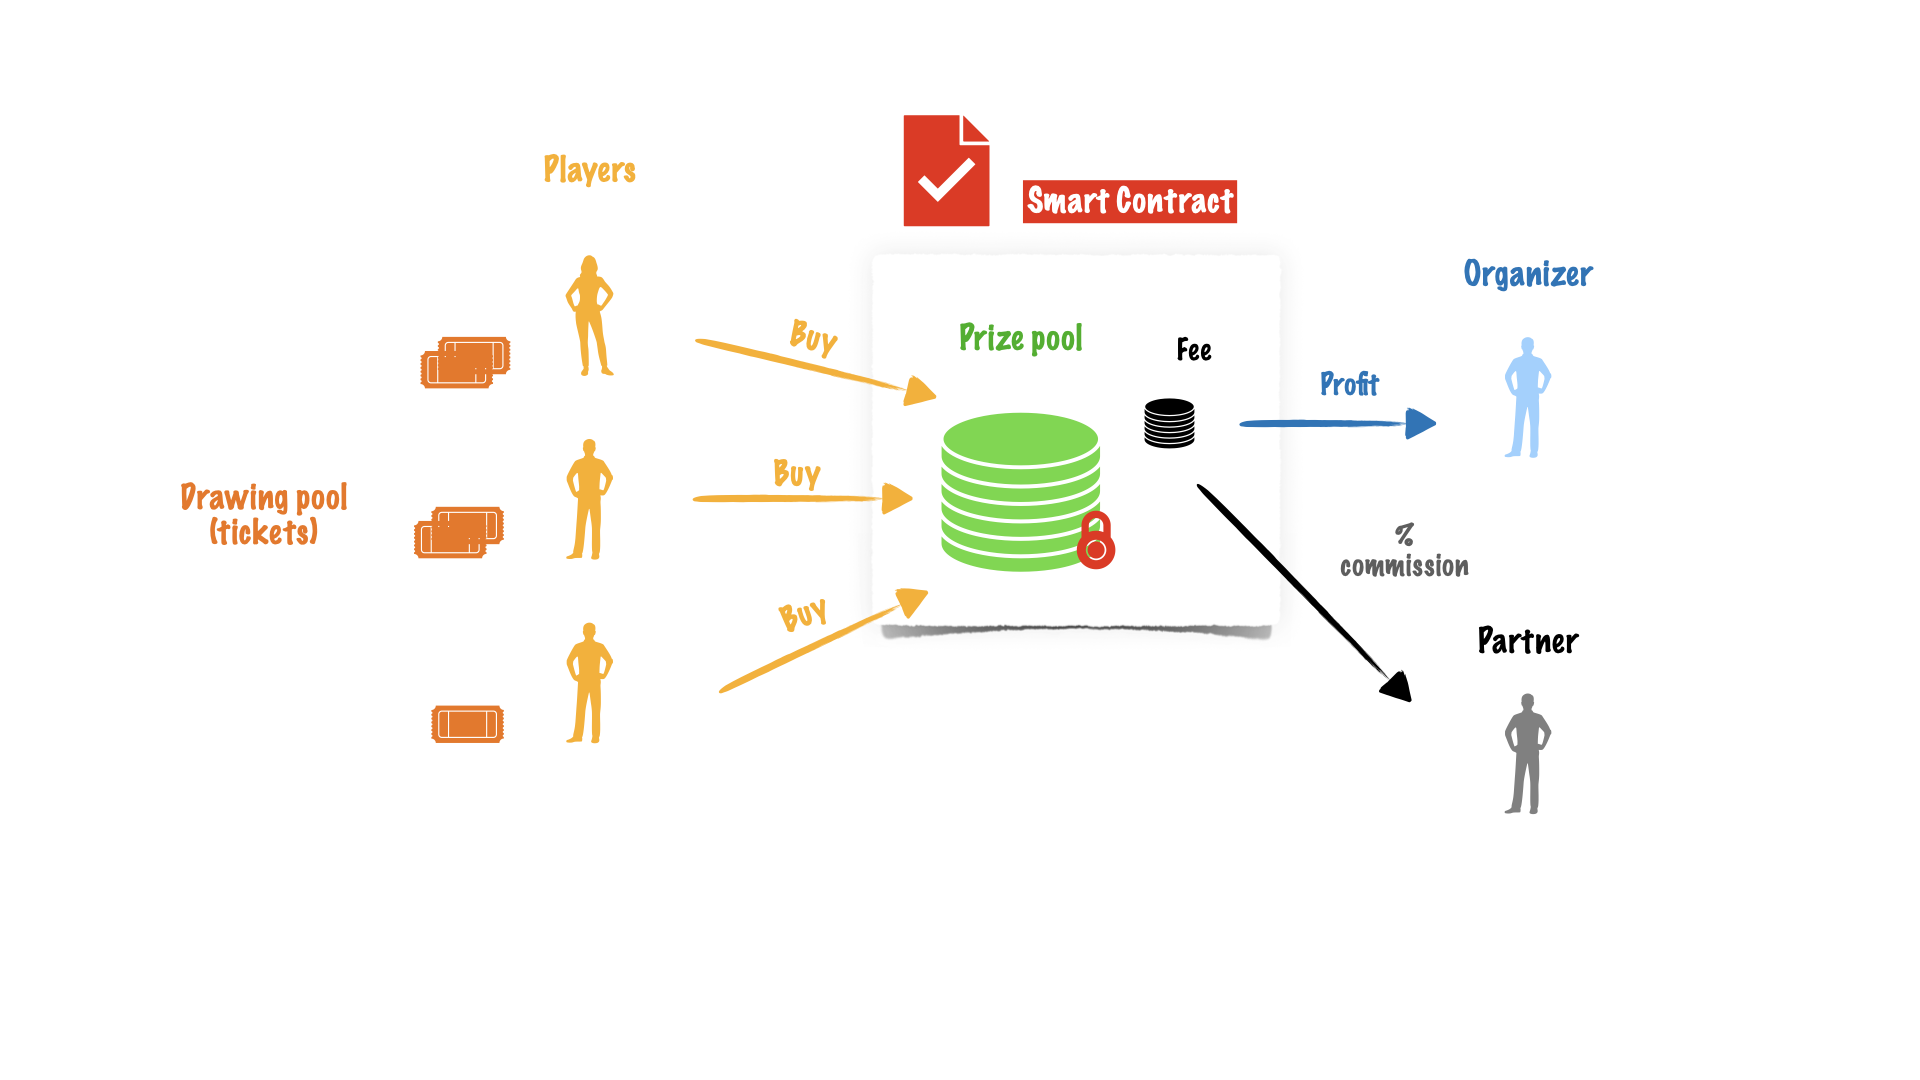
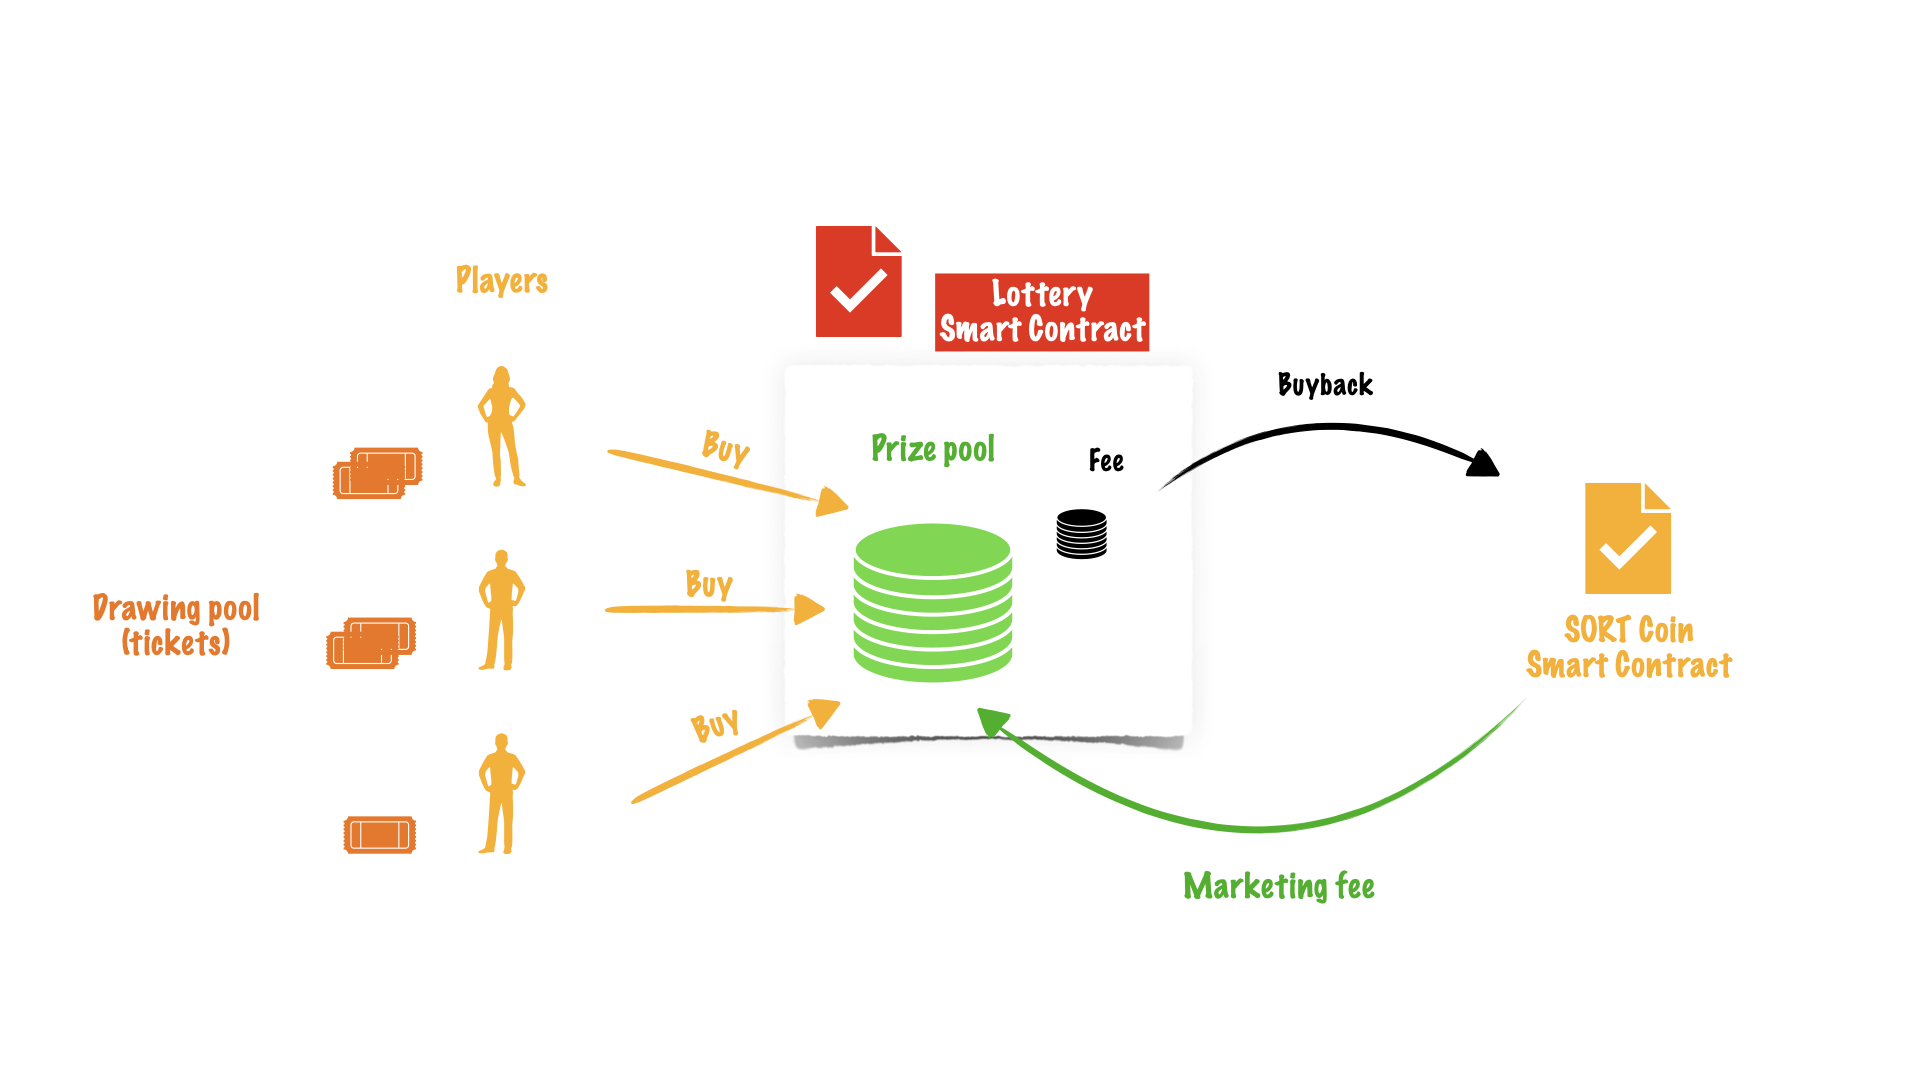
Update docs with SORT coin

diff --git a/docs/source/usage.rst b/docs/source/usage.rst
@@ -6,12 +6,60 @@ How-to play
 Connect wallet
 --------------
 
-TODO
+You need a crypto wallet on Binance Smart Chain network to play a **Lottery** game.
+The most popular wallet is a `MetaMask <https://https://metamask.io//>`_. Please check the guide
+`Connecting MetaMask to Binance Smart Chain <https://academy.binance.com/en/articles/connecting-metamask-to-binance-smart-chain>`_.
+
+You can also can use any other wallet with WalletConnect.
+See the list of supported `Wallets <https://registry.walletconnect.org/wallets>`_.
+
+If you created wallet or already have one, click the **Connect Wallet** button and choose the desired wallet type.
+At the end you will need to approve access to account information in your wallet.
+
+.. figure:: screenshots/connect.png
+  :width: 640
+  :align: center
+  :alt: Connect
+
+|
 
 Buy tickets
 -----------
 
-TODO
+When you connected your wallet, you can see your account information: already purchased tickets and
+rewards like on the screenshot below.
+
+.. figure:: screenshots/account.png
+  :width: 640
+  :align: center
+  :alt: Account
+
+|
+
+You can also buy tickets now. Make sure that you agree with ticket price displayed.
+
+1. To buy a ticket enter the amount of tickets you want to buy.
+You will see the estimated gas fee after your enter some value. Click the **Buy** button to start the transaction.
+
+   .. figure:: screenshots/buy-started.png
+      :width: 640
+      :align: center
+      :alt: Buy started
+
+2. At this step you need to confirm your transaction in a wallet. You may check the correctness of the gas
+fee and the spent amount.
+
+   .. figure:: screenshots/buy-processing.png
+      :width: 640
+      :align: center
+      :alt: Buy processing
+
+3. Once the transaction confirmed the amount of bought tickets will be reflected on your account balance.
+
+   .. figure:: screenshots/buy-finished.png
+      :width: 640
+      :align: center
+      :alt: Buy finished
 
 Claim reward
 ------------

diff --git a/docs/source/index.rst b/docs/source/index.rst
@@ -6,6 +6,8 @@ And rules are pretty simple: players are buying tickets using the blockchain tok
 The token is defined by the blockchain, for example, the BNB on the Binance Smart Chain.
 The tokens from sales go to the prize pool and will be used to pay prizes in a specific drawing.
 
+See also :doc:`coin`.
+
 .. image:: slides/slides.001.png
   :width: 1024
   :align: center
@@ -18,7 +20,7 @@ the `Chainlink VRF <https://docs.chain.link/docs/chainlink-vrf/>`_ will be used 
 unclaimed, and only the winner can claim it. The unclaimed prizes are stored indefinitely in the contract
 memory and can be claimed at any time.
 
-.. image:: slides/slides.002.png
+.. image:: slides/slides.003.png
   :width: 1024
   :align: center
   :alt: Drawing
@@ -44,16 +46,6 @@ The organizer, or contract creator, doesn't have access to the prize pool. He ca
 If the partnership exists partner is also eligible for part of the profit (commission %), but it does not affect
 the players payout, because partner gets the part of the organizer profit. Having a partner means organizer getting less profit.
 
-Partnership
------------
-
-The partnership can be established by writing the partner address and his commission rate to the contract memory.
-One of the partnership could be for example, advertisement support.
-
-:math:`partnerProfit = soldTickets * ((100 - payout) / 100) * (commission / 100)`
-
-For example, if commission is 50% and payout is 90%, the partner will get the 5% of the total sales.
-
 Links
 -----
 
@@ -73,4 +65,6 @@ Contents
 
 .. toctree::
 
+   coin
    usage
+   partner

diff --git a/docs/source/coin.rst b/docs/source/coin.rst
@@ -1,0 +1,38 @@
+SORT coin
+=========
+
+SORT coin is a utility token the dApp lottery game. It uses modern token mechanics:
+reflection, automatic liquidity addition and token deflation. Additionally it will
+provide some in-game benefits to the holders.
+
+.. image:: slides/slides.002.png
+  :width: 1024
+  :align: center
+  :alt: Drawing
+
+Anti-Whale Mechanics
+--------------------
+The maximum transaction limit is implemented to protect from a large sell transaction,
+resulting in a dramatic drop in the prices of the token. These constraints protect
+token from manipulation by large holders, usually referred to as whales.
+
+Static-rewards
+--------------
+Holding rewards strategy is used. The reflect function takes 4% of every SORT token transaction, splits that fee and
+awards it to all holders of the token.
+
+Automatic Liquidity Generation
+------------------------------
+Each transaction is subject to a 4% fee, which is used to increase liquidity on PancakeSwap.
+
+Deflation
+---------
+3% of total supply tokens are burned by sending to the `0x000000000000000000000000000000000000dead` address.
+Since SORT uses a reflection function it constantly receives a small portion of the reflection fee. As
+more tokens are transferred, more will get burned thus reducing the total supply.
+
+Buyback
+-------
+Once the lottery contract become popular it will use the transactions fee to repurchase and burn SORT tokens.
+These purchasing transactions will add additional value (BNBs) to the liquidity pool and reduce
+the total circulating supply of tokens.

diff --git a/docs/source/partner.rst b/docs/source/partner.rst
@@ -1,0 +1,18 @@
+Partnership
+===========
+
+The partnership can be established by writing the partner address and his commission rate to the contract memory.
+One of the partnership could be, for example, advertisement support.
+
+.. math::
+
+    profit = soldTickets * ((100 - payout) / 100)
+
+    partnerProfit = profit * (commission / 100)
+
+For example, if commission is 50% and payout is 90%, the partner will get the 5% of the total sales.
+
+.. image:: slides/slides.004.png
+  :width: 1024
+  :align: center
+  :alt: Overview
